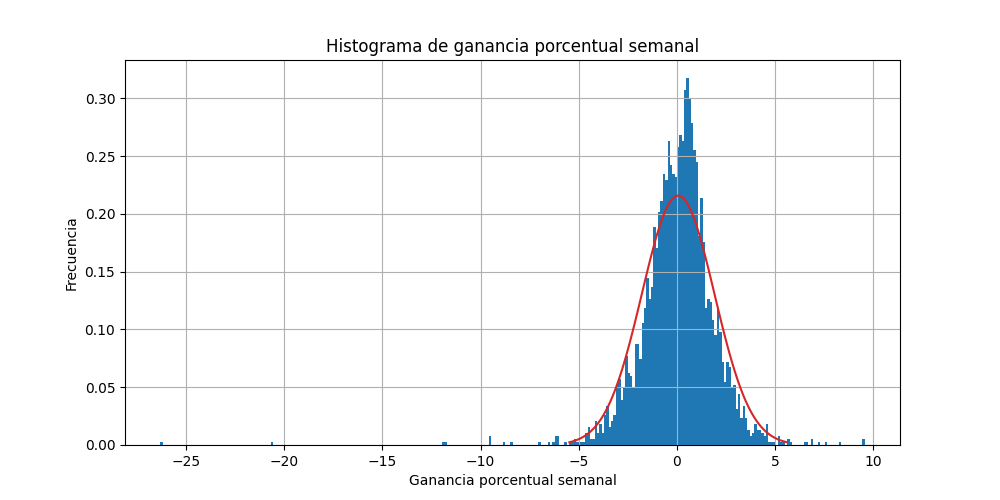
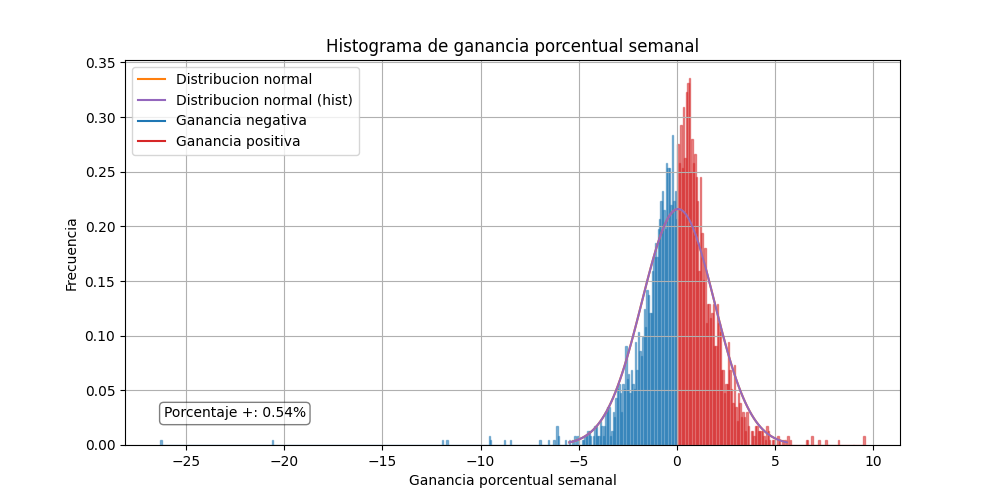
split in patches

diff --git a/punto8/literalB/ganancia_porcentual_semanal.py b/punto8/literalB/ganancia_porcentual_semanal.py
@@ -31,12 +31,7 @@ def calculate_weekly_percentage_gain(data):
     ganancia = 100*(sp5I - spD[0:len(sp5I)]) / spD[0:len(sp5I)] 
     rangoDeGananaciaSemanal = np.array([daysD[:len(days5I)], days5I,ganancia]).T
 
-    for i in rangoDeGananaciaSemanal:
-        print(f"dia: {i[0]}, dia+5: {i[1]}, ganancia: {i[2]}")
-
-    print(f"Min: {np.min(ganancia)}")
-    print(f"Max: {np.max(ganancia)}")
-
+    print(len(rangoDeGananaciaSemanal))
     return rangoDeGananaciaSemanal
 
 # Mean and std of weekly percentage gain
@@ -44,25 +39,76 @@ def meanAndStd(data):
     y = data[:,2]
     return np.mean(y), np.std(y)
 
+def meanAndStdFromHist(N, bins):
+    mids = 0.5*(bins[1:] + bins[:-1])
+    mean = np.average(mids, weights=N)
+    variance = np.average((mids - mean)**2, weights=N)
+    std = np.sqrt(variance)
+    return mean, std
+
+
+#Separa en dos arreglos de ganancia positiva y negativa
+def separarGananciaPositivaNegativa(data):
+    ganancia = data[:,2]
+    gananciaPositiva = ganancia[ganancia > 0]
+    gananciaNegativa = ganancia[ganancia < 0]
+    return gananciaPositiva, gananciaNegativa
 
 # Graficamos histograma de ganancia porcentual semanal
 
 def plot_histograma_rangoDeGananciaSemana(rangoDeGananaciaSemanal, mean, std, fig_name="ganancia_porcentual_semanal.png"):
     fig,ax = plt.subplots(figsize=(10, 5))
 
+    datosGananciaPositiva, datosGananciaNegativa = separarGananciaPositivaNegativa(rangoDeGananaciaSemanal)
+
+
     ## Plot norm 
 
     ax.grid(True)
-    ax.hist(rangoDeGananaciaSemanal[:,2], bins=300, color='tab:blue', density=True)
+    #ax.hist([datosGananciaPositiva, datosGananciaNegativa], bins=150, color=['tab:blue', 'tab:red'], label=['Ganancia positiva', 'Ganancia negativa'], density=True)
+    N, bins,patches = ax.hist(rangoDeGananaciaSemanal[:,2], bins=500, color='tab:blue', density=True)
     ax.set_title('Histograma de ganancia porcentual semanal')
     ax.set_xlabel('Ganancia porcentual semanal')
     ax.set_ylabel('Frecuencia')
 
+
+    #set percent of week with positive gain
+    percent = len(datosGananciaPositiva) / len(rangoDeGananaciaSemanal)
+    ax.text(0.05, 0.1, f"Porcentaje +: %1.2f" % percent + "%", transform=ax.transAxes, fontsize=10,
+        verticalalignment='top', bbox=dict(boxstyle='round', facecolor='white', alpha=0.5))
+
     ## Plot gaussian distribution with mean and std
     x = np.linspace(mean - 3*std, mean + 3*std, 100)
-    ax.plot(x, stats.norm.pdf(x, mean, std), color='tab:red')
+    ax.plot(x, stats.norm.pdf(x, mean, std), color='tab:orange', label='Distribucion normal')
+
+    ## Plot mean and std from hist
+
+    meanHist, stdHist = meanAndStdFromHist(N, bins)
+    x = np.linspace(meanHist - 3*stdHist, meanHist + 3*stdHist, 100)
+    ax.plot(x, stats.norm.pdf(x, meanHist, stdHist), color='tab:purple', label='Distribucion normal (hist)')
 
 
+    ## paint patches with color depending on the sign of the gain with legend
+    addLabelToPositive = True
+    addLabelToNegative = True
+    for i in range(len(patches)):
+        if patches[i].get_x() < 0:
+            if addLabelToNegative:
+                ax.plot([],[], color='tab:blue', label='Ganancia negativa')
+                addLabelToNegative = False
+            
+            patches[i].set_facecolor('tab:blue')
+            patches[i].set_edgecolor('tab:blue')
+            patches[i].set_alpha(0.5)
+        else:
+            if addLabelToPositive:
+                ax.plot([],[], color='tab:red', label='Ganancia positiva')
+                addLabelToPositive = False
+            patches[i].set_facecolor('tab:red')
+            patches[i].set_edgecolor('tab:red')
+            patches[i].set_alpha(0.5)
+
+    ax.legend(loc='upper left')
 
     plt.show()
     fig.savefig(f'../data/literalB/{fig_name}.png')
